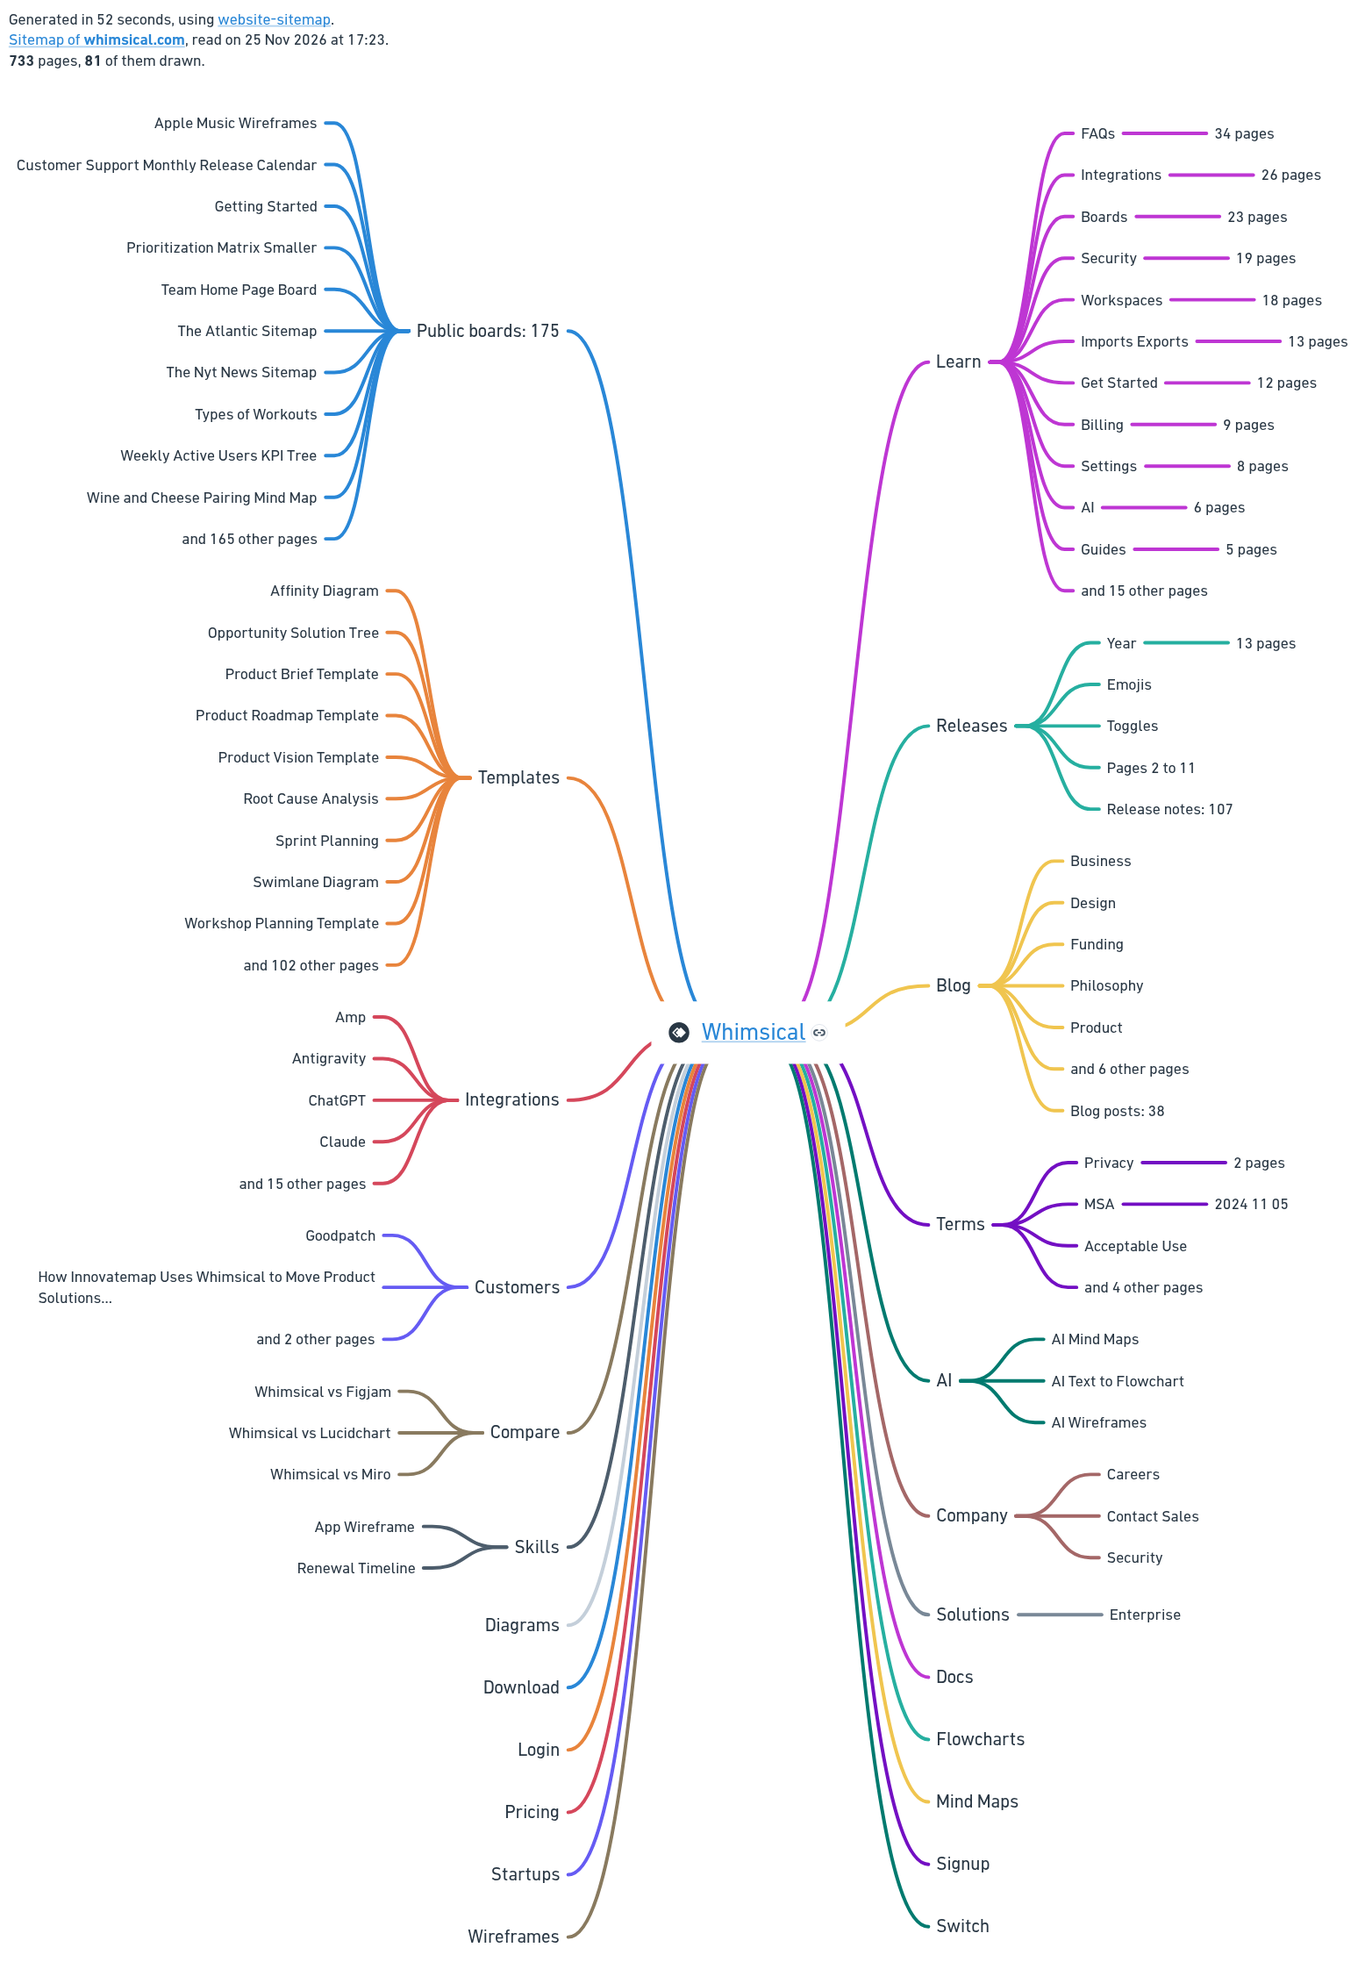
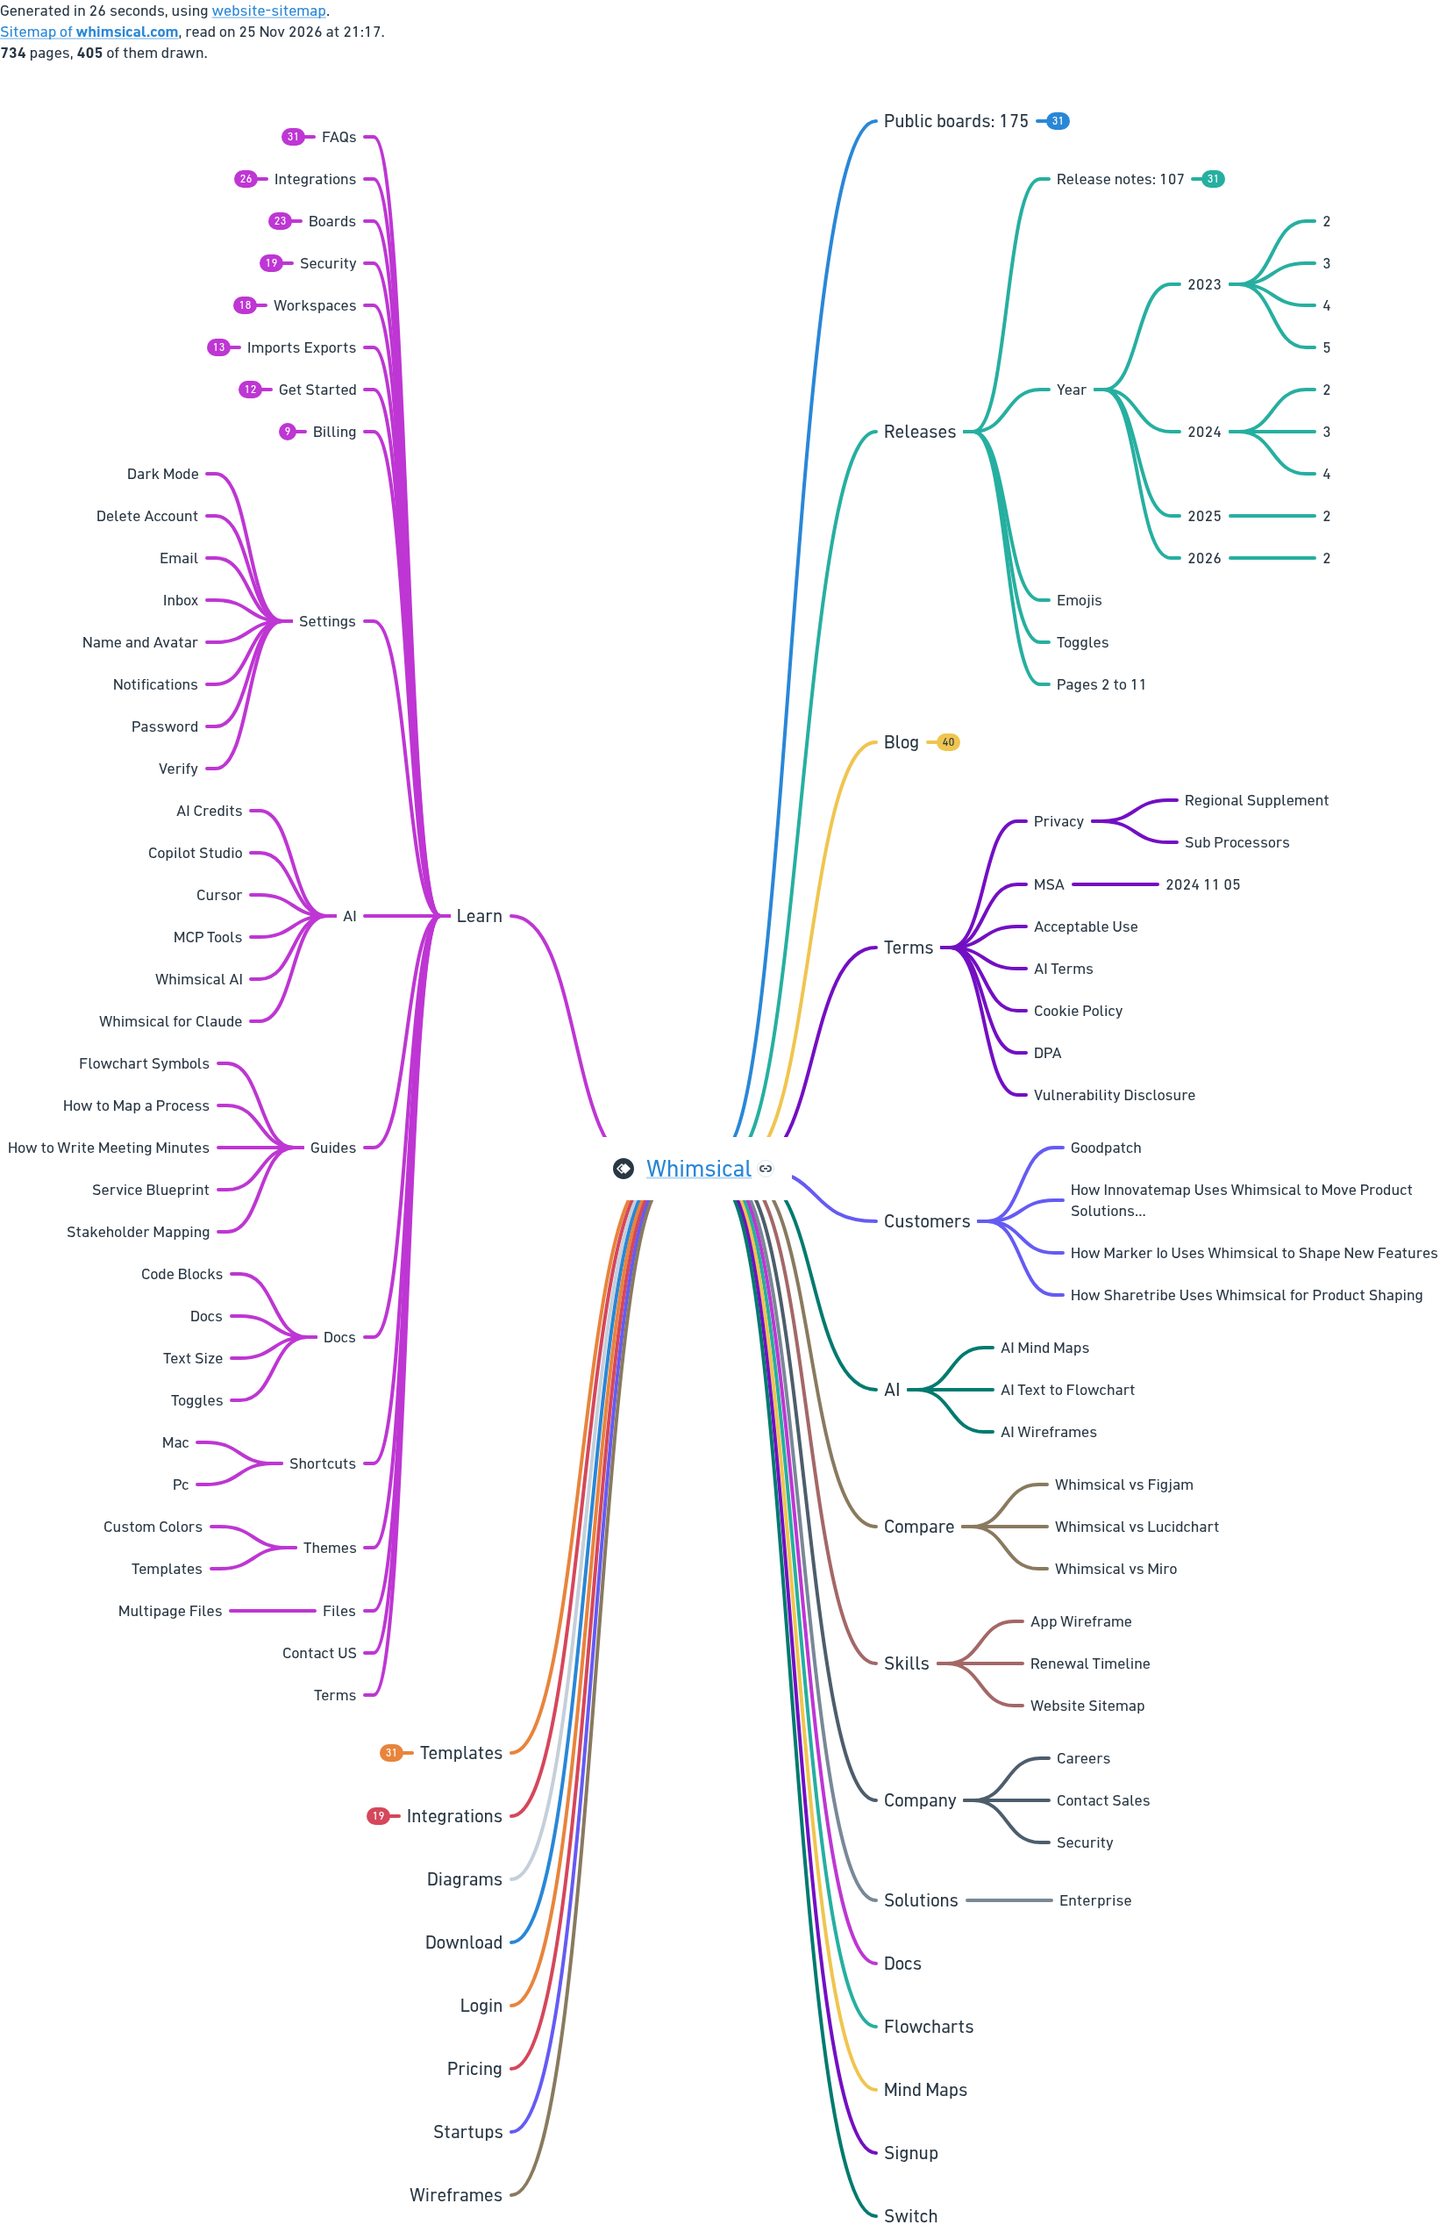
website-sitemap 0.2.0: collapse crowded mind map lists, document and check the size options

diff --git a/skills/website-sitemap/scripts/sitemap.py b/skills/website-sitemap/scripts/sitemap.py
@@ -58,6 +58,8 @@ SKILL_URL = "https://whimsical.com/skills/website-sitemap"
 
 DEFAULT_LIMIT = 1000
 MAX_LIMIT = 2000                   # the most nodes the Whimsical MCP takes in one mind map
+MAX_FLOWCHART = 1000               # the most nodes it takes in one flowchart
+COLLAPSE_OVER = 8                  # a mind map node listing more pages than this starts collapsed
 MAX_TEXT = 102_400                 # the most characters the Whimsical MCP takes in one string
 MAX_ROWS = 200                     # the most rows the Whimsical MCP takes in one flowchart table
 PER_LEVEL = 30                     # the most children a node shows; the rest become "and N other pages"
@@ -764,19 +766,46 @@ def mindmap(root: Node, labels: dict[str, str], root_label: str, link: str | Non
     if link:
         first = f"[{first}]({link})"
     lines = [first + (f" icon-name:{icon}" if icon else "")]
-
-    def add(node: Node, depth: int) -> None:
-        for kid in ordered(node, labels, root_label):
-            lines.append("  " * depth + "- " + label(kid, labels, root_label))
-            add(kid, depth + 1)
-    add(root, 0)
+    for node, depth in outline(root, labels, root_label)[1:]:
+        lines.append("  " * (depth - 1) + "- " + label(node, labels, root_label))
     return "\n".join(lines) + "\n"
 
 
-def left_branches(root: Node, labels: dict[str, str], root_label: str) -> list[int]:
+def outline(root: Node, labels: dict[str, str], root_label: str) -> list[tuple[Node, int]]:
+    """Every node with its depth, in the order the mind map's lines list them: the root first."""
+    out = [(root, 0)]
+
+    def add(node: Node, depth: int) -> None:
+        for kid in ordered(node, labels, root_label):
+            out.append((kid, depth))
+            add(kid, depth + 1)
+    add(root, 1)
+    return out
+
+
+def crowded(node: Node, over: int) -> bool:
+    """A list worth collapsing: more than `over` children, mostly single pages, or a collection. A node
+    whose children are mostly sections stays open, so the site's structure shows."""
+    kids = list(node.children.values())
+    if node.parent is None or len(kids) <= over:
+        return False
+    return node.virtual or sum(1 for k in kids if not k.children) > len(kids) / 2
+
+
+def collapsed_lines(root: Node, labels: dict[str, str], root_label: str, over: int) -> list[int]:
+    """Which nodes of the mind map start collapsed, as line numbers of mindmap.md (the root is 1)."""
+    if over <= 0:
+        return []
+    return [i + 1 for i, (node, _) in enumerate(outline(root, labels, root_label)) if crowded(node, over)]
+
+
+def left_branches(root: Node, labels: dict[str, str], root_label: str, over: int = 0) -> list[int]:
     """Which top-level branches of the mind map to put left of the root, counted from 1 in the order
-    they come, so both sides have about as many rows. Whimsical puts them all on the right."""
+    they come, so both sides have about as many rows. Whimsical puts them all on the right. A node that
+    starts collapsed takes one row."""
     def rows(node: Node) -> int:
+        if over > 0 and crowded(node, over):
+            return 1
         return max(1, sum(rows(c) for c in node.children.values()))
     branches = ordered(root, labels, root_label)
     sides = [0, 0]                           # rows on the right, on the left
@@ -930,7 +959,13 @@ def cmd_draw(args) -> None:
     folder = Path(args.folder)
     meta, urls = load(folder)
     if not 2 <= args.limit <= MAX_LIMIT:
-        raise SitemapError(f"--limit must be between 2 and {MAX_LIMIT}, the most the Whimsical MCP takes at once.")
+        raise SitemapError(f"--limit must be between 2 and {MAX_LIMIT}, the most the Whimsical MCP takes in one "
+                           "mind map.")
+    if args.type != "mindmap" and args.limit > MAX_FLOWCHART:
+        raise SitemapError(f"a flowchart takes at most {MAX_FLOWCHART:,} nodes in the Whimsical MCP: use --limit "
+                           f"{MAX_FLOWCHART} or less, or draw only the mind map with more.")
+    if args.collapse_over < 0:
+        raise SitemapError("--collapse-over takes a number of pages, or 0 to keep every node open.")
     if not 1 <= args.per_level < MAX_ROWS:
         raise SitemapError(f"--per-level must be between 1 and {MAX_ROWS - 1}, the most rows a flowchart table "
                            "takes, with the 'other pages' row.")
@@ -975,7 +1010,11 @@ def cmd_draw(args) -> None:
             print(f'Flowchart root: set the root table\'s header to {{"row": 0, "col": 0, '
                   f'"text": "[{label(root, labels, root_label)}]({link})"{icon}}}.'
                   + (' With the logo, also widen it: "widths": [<the root table\'s width plus 60>].' if icon else ""))
-        left = left_branches(root, labels, root_label) if kind == "mindmap" else []
+        left = left_branches(root, labels, root_label, args.collapse_over) if kind == "mindmap" else []
+        shut = collapsed_lines(root, labels, root_label, args.collapse_over) if kind == "mindmap" else []
+        if shut:
+            print(f"Mind map collapsed: nodes {ranges(shut)} ({len(shut)} of {root.size}, by their line in "
+                  f"mindmap.md, the root is 1): the lists of more than {args.collapse_over} pages start closed.")
         if left:
             print(f"Mind map sides: put top-level branches {ranges(left)} on the left "
                   f"(of {len(root.children)}, counted from 1 in order).")
@@ -1050,6 +1089,8 @@ def main(argv=None) -> None:
     p.add_argument("--locale", help="language prefix to draw, like en-us; none for unprefixed pages; all")
     p.add_argument("--limit", type=int, default=DEFAULT_LIMIT, help="most nodes to draw (default 1000)")
     p.add_argument("--section", help="draw only this section, like /blog")
+    p.add_argument("--collapse-over", type=int, default=COLLAPSE_OVER,
+                   help="in the mind map, collapse lists of more pages than this (default 8; 0 keeps all open)")
     p.add_argument("--icon", help="icon for the root, from Whimsical's set, like logo-github")
     p.add_argument("--per-level", type=int, default=PER_LEVEL,
                    help="most children shown under any node; the rest become 'and N other pages' (default 30)")

diff --git a/tests/website-sitemap/test_sitemap.py b/tests/website-sitemap/test_sitemap.py
@@ -475,6 +475,35 @@ def test_numbered_pages_sort_as_numbers():
     assert [n.segment for n in sitemap.ordered(jobs, {}, "Acme")] == ["1", "2", "10", "21", "apply"]
 
 
+def test_crowded_lists_start_collapsed_and_sections_stay_open():
+    urls = [f"{SITE}/blog/post-{i:02d}" for i in range(12)]
+    urls += [f"{SITE}/docs/{name}/{p}" for name in ("api", "cli", "sdk") for p in range(10)]
+    urls += [f"{SITE}/company/{p}" for p in ("careers", "contact", "press")]
+    root = tree(urls)
+    sitemap.layout(root)
+    lines = sitemap.mindmap(root, {}, "Acme").splitlines()
+    shut = sitemap.collapsed_lines(root, {}, "Acme", 8)
+    names = [lines[n - 1].strip("- ") for n in shut]
+    assert names == ["API", "Cli", "SDK", "Blog"]
+    assert "Docs" not in names and "Company" not in names and "Acme" not in names
+    assert sitemap.collapsed_lines(root, {}, "Acme", 0) == []
+
+
+def test_collapsed_lines_are_the_mind_maps_line_numbers():
+    root = tree(acme(blog=20, docs=(12,)))
+    sitemap.layout(root)
+    lines = sitemap.mindmap(root, {}, "Acme").splitlines()
+    for n in sitemap.collapsed_lines(root, {}, "Acme", 8):
+        node = [nd for nd, _ in sitemap.outline(root, {}, "Acme")][n - 1]
+        assert lines[n - 1].strip().lstrip("- ") == sitemap.label(node, {}, "Acme")
+
+
+def test_a_collapsed_list_counts_as_one_row_for_the_sides():
+    root = tree(acme(blog=30, docs=(5, 5, 5, 5)))
+    sitemap.layout(root)
+    assert sitemap.left_branches(root, {}, "Acme") != sitemap.left_branches(root, {}, "Acme", 8)
+
+
 def test_ranges():
     assert sitemap.ranges([1, 2, 3, 5, 7, 8]) == "1 to 3, 5, 7, 8"
     assert sitemap.ranges([4]) == "4"
@@ -517,6 +546,7 @@ def test_draw_writes_both_diagrams(tmp_path):
     assert "1,504 pages, 34 of them drawn, in 35 nodes (limit 1,000)." in out
     assert "  - and 1,470 other pages\n" in (folder / "mindmap.md").read_text()
     assert "warning: labels.json names /nope" in out
+    assert "Mind map collapsed: nodes 2 (1 of 35" in out
 
 
 def test_draw_prints_the_flowchart_root_link(tmp_path):
@@ -566,6 +596,9 @@ def test_note_needs_a_fetch_and_a_draw(tmp_path):
 
 def test_draw_options_are_checked(tmp_path):
     folder = saved_site(tmp_path, acme(blog=5))
+    result = run_script("draw", folder, "--type", "both", "--limit", "1500", cwd=tmp_path, check=False)
+    assert result.returncode == 1 and "a flowchart takes at most 1,000 nodes" in result.stderr
+    assert run_script("draw", folder, "--type", "mindmap", "--limit", "1500", cwd=tmp_path).returncode == 0
     result = run_script("draw", folder, "--type", "mindmap", "--per-level", "250", cwd=tmp_path, check=False)
     assert result.returncode == 1 and "--per-level must be between 1 and 199" in result.stderr
     out = run_script("draw", folder, "--type", "mindmap", "--per-level", "2", cwd=tmp_path).stdout

diff --git a/skills/website-sitemap/SKILL.md b/skills/website-sitemap/SKILL.md
@@ -78,9 +78,18 @@ then:
 It writes `mindmap.md` or `flowchart.mmd` in `sitemaps/<domain>/` and prints the top level with
 its labels, the collections it made, and what it counted without drawing.
 
-Keep both limits unless the user asks otherwise: `--per-level 10` for a sparser drawing (up to
-199), `--limit 300` for fewer nodes in all (up to 2,000, the most the Whimsical MCP takes in
-one diagram).
+**Sizes.** Keep the defaults unless the user asks for something else, in their words or as a
+number. Map what they ask to these options, and say in the report which ones you changed:
+
+| Option | What it sets | Default | Range |
+|---|---|---|---|
+| `--limit N` | nodes in the whole diagram ("300 nodes at most", "a quick one") | 1000 | 2 to 2,000; 1,000 with a flowchart |
+| `--per-level N` | entries under any one node before "and N other pages" ("60 pages per section") | 30 | 1 to 199 |
+| `--collapse-over N` | mind map lists of more pages than this start collapsed ("open everything": 0) | 8 | 0 or more |
+
+The Whimsical MCP takes at most 2,000 nodes in a mind map and 1,000 in a flowchart, and 200 rows
+in a table; the script refuses what it wouldn't take and says so. If the user asks for more,
+tell them the limit and draw the most it allows.
 
 **Fix the labels.** Labels come from the URLs (`/data-center` becomes "Data Center"), so check
 the top-level list the script printed. Write `sitemaps/<domain>/labels.json`, with two kinds of
@@ -128,14 +137,17 @@ returns a snapshot of it).
      `{"relative_to": <the bounding box the first reply printed>, "direction": "right"}`. Pass
      that box itself, `{"x": ..., "y": ..., "width": ..., "height": ...}`, not the mind map's
      id: the id is its root node's, and "right of" the root lands in the middle of the map.
-3. Balance the mind map. Whimsical puts every branch right of the root; the script printed
-   which top-level branches to move left ("Mind map sides: put top-level branches 2 to 4, 6 on
-   the left"). In the `add_board_content` reply, the root is the first object listed and the
-   top-level branches are the objects whose `parent` is the root's id, in order. Call `edit`
-   with one operation, `{"op": "mm_update", "id": <the root's id>, "update": [{"id": <branch
-   id>, "side": "left"}, ...]}`, one entry per branch the script named. If the reply doesn't
-   list the objects, `fetch` with `scope` set to the root's id: it shows each branch's text.
-   Skip this step for a flowchart, or when the script printed no sides.
+3. Balance and tidy the mind map, in one `edit` call. Whimsical puts every branch right of the
+   root and opens every node; the script printed which top-level branches to move left ("Mind
+   map sides: put top-level branches 2 to 4, 6 on the left") and which nodes start collapsed
+   ("Mind map collapsed: nodes 3, 35, 199"). In the `add_board_content` reply, the objects
+   come in the order of mindmap.md's lines: the first is the root (line 1), the Nth object is
+   line N. The top-level branches are the objects whose `parent` is the root's id, in order.
+   Call `edit` with one operation, `{"op": "mm_update", "id": <the root's id>, "update": [...]}`,
+   with `{"id": <branch id>, "side": "left"}` for each branch the script named and `{"id":
+   <the Nth object's id>, "collapsed": true}` for each node it named. If the reply doesn't
+   list the objects, `fetch` with `scope` set to the root's id: it lists them in the same
+   order, with their text. Skip this step for a flowchart, or when the script printed neither.
 
    For a flowchart, link its root instead: the script printed `Flowchart root: set the root
    table's header to {...}`. The root table is the topmost object in the `add_board_content`

diff --git a/docs/website-sitemap.md b/docs/website-sitemap.md
@@ -10,7 +10,7 @@ for planning a build.
 Make a sitemap of acme.com
 ```
 
-![The whimsical.com sitemap as a Whimsical mind map: the site in the middle, its sections and main pages around it, the public boards and release notes grouped, long lists ending with a count of the other pages](website-sitemap.png)
+![The whimsical.com sitemap as a Whimsical mind map: the site in the middle, its sections and main pages around it, the public boards, release notes and other long lists collapsed with a count of their pages](website-sitemap.png)
 
 Your agent reads the site's sitemap, and every sitemap nested in it, and asks which diagram you
 want. Then it draws the site on a new board, top down: its main pages and sections first,
@@ -53,10 +53,27 @@ The skill builds the full tree of pages, then:
    pages that read like main pages. The rest become one node, "and 354 other pages". When a
    level doesn't fit, sections share the room by size, so big ones show more and small ones
    still show some.
+3. **Starts long lists collapsed** in the mind map. A node listing more than 8 pages, like a
+   blog or a list of templates, opens on a click; sections that hold other sections stay open,
+   so the board opens on the site's structure.
 
 Nothing disappears without being counted: the text above the drawing says how many of the
 sitemap's pages are drawn. To see what's counted in a section, ask for that section on its own
 ("Draw just the /blog section"), with longer lists if you like.
+
+### Draw more or less
+
+The defaults fit most sites. Ask for other sizes in plain words, and the agent sets them:
+
+| | Default | You can ask for | For example |
+|---|---|---|---|
+| Nodes in the whole diagram | 1,000 | 2 to 2,000 in a mind map, up to 1,000 in a flowchart | "300 nodes at most" |
+| Entries under one node, before "and N other pages" | 30 | 1 to 199 | "up to 60 pages per section" |
+| Mind map lists that start collapsed | more than 8 pages | any size, or none | "keep every branch open" |
+
+The highest values are what the Whimsical MCP takes in one go: 2,000 nodes in a mind map,
+1,000 in a flowchart, and 200 rows in a flowchart's table. Bigger diagrams take longer to draw
+and to open.
 
 ## What it needs from the site
 
@@ -142,6 +159,8 @@ Make a sitemap of acme.com
 Draw the site structure of https://www.globex.com as a flowchart
 Mind map the sitemap of initech.com, in German
 Draw just the /blog section of acme.com's sitemap
+Make a sitemap of acme.com with up to 60 pages per section
+Make a quick sitemap of acme.com, 200 nodes at most
 ```
 
 The agent asks which diagram you want unless you say. It will probably ask permission for
@@ -172,7 +191,7 @@ sitemap again unless you ask for fresh data.
    6,000 tokens.
 3. The agent fixes labels, creates the board and passes the text to the Whimsical MCP as is.
    Whimsical lays the diagram out. The agent then spreads the mind map's branches on both
-   sides, adds the text about the run and checks a snapshot.
+   sides, collapses its long lists, adds the text about the run and checks a snapshot.
 
 The script uses only Python's standard library and never calls Whimsical.
 
